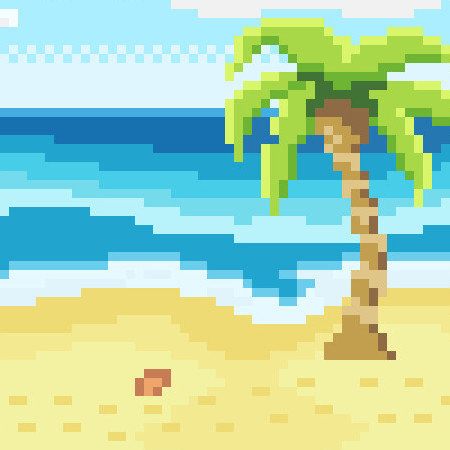
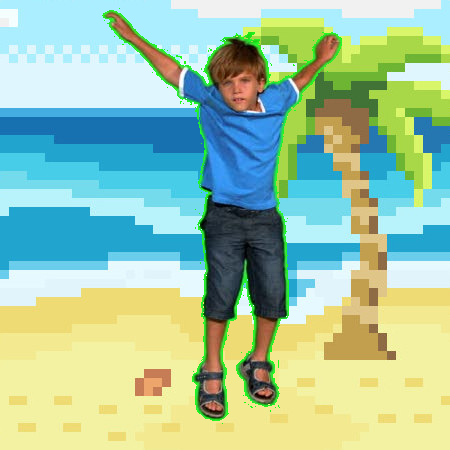
new_project final

Changed region(s): [[0.2178, 0.0, 0.7778, 0.9333]]

diff --git a/4.4/new_project.py b/4.4/new_project.py
@@ -1,23 +1,28 @@
 # Fractal art generator
 # Author: Jacob Joe
 # Date: November 14, 2025
-# A fractal art generator that uses recursion to generate patterns
+# A fractal art generator that uses recursion to generate patterns, counts the number of recurisve 
+# function calls executed, and allows the user to select the colour pallete if they so desire
 
 
 import turtle  # Imports the turtle module
 t = turtle.Turtle()  # Creates a turtle instance
 
-# Recursive function that draws a pattern
+# A dictionary that allows for easy access of elements 
+fractal_settings_dictonary = { "branch_length": 60,  "angle": 120,  "colours": [], "level_cap": 9, "call_count": 0   }
+
+# Recursive function that draws a pattern 
 def draw_pattern(level, branch_length):
+    fractal_settings_dictonary["call_count"] += 1
     if level > 0:
         t.forward(branch_length)  # draws the current branch
-        t.left(120)
+        t.left(fractal_settings_dictonary["angle"])
         draw_pattern(level - 1, branch_length / 1.61)
 
-        t.left(120)
+        t.left(fractal_settings_dictonary["angle"])
         draw_pattern(level - 1, branch_length / 1.61)
 
-        t.left(120)
+        t.left(fractal_settings_dictonary["angle"])
         draw_pattern(level - 1, branch_length / 1.61)
         t.back(branch_length)
         
@@ -31,18 +36,22 @@ t.pendown()
 t.color("white") # Sets up the colour and width of turtle
 t.width(2)
 
-done = False
+done = False 
 
+# A while loop that will keep requesting the amount of levels until the user inputs an acceptable amount
 while not done:
   level = float(input("How many levels do you want to draw from 1-9? "))
-  if level > 9:
+  if level > fractal_settings_dictonary["level_cap"]:
     user_input = input("Levels requested are too high, do you want to input a value lower than 9? If not, go autmomatically with 6.(Y/N)").lower()
+# Uses default levels if the user does not want to input anything new
     if user_input == "n":
       print("Setting to 6 levels.")
       level = 6
       done = True
+# Will ask for another input if user input is less than or equal to 0
   elif level <= 0:
     user_input = input("Levels requested are too low, do you want to input a value higher than 0? If not, go automatically with 6.(Y/N)").lower()
+# Uses default levels if the user does not want to input anything new
     if user_input == "n":
       print("Setting to 6 levels.")
       level = 6
@@ -50,13 +59,26 @@ while not done:
   else:
     done = True
 
-  
+# Lets user customize the colours
+# Can input colours such as blue or light blue
+custom_colours = input("Enter up to 9 different comma-split colours for the pattern or press enter to go with defalut option. ").lower()
+if custom_colours.strip() == "":
+    colours = ["purple", "indigo", "blue", "cyan", "light blue", "white"]
+# If the user inputed colours
+else:
+    custom_colours = custom_colours.strip().split(",")
+    colours = custom_colours
+# If the user inputed too many colours
+    if len(custom_colours) > fractal_settings_dictonary["level_cap"]:
+        print("There are too many colours. Using default instead.")
+        colours = ["purple", "indigo", "blue", "cyan", "light blue", "white"]
+fractal_settings_dictonary["colours"] = colours
 
-colors = ["indigo", "purple", "blue", "cyan", "light blue", "white"]
 
+# Repeats the pattern 8 times to create a snowflakeish structure
 for i in range(8):
-    t.pencolor(colors[i % 6])
-    draw_pattern(int(level), 60)
+    t.color(fractal_settings_dictonary["colours"][i % len(fractal_settings_dictonary["colours"])])
+    draw_pattern(int(level), fractal_settings_dictonary["branch_length"])
     t.right(45)
-
+print("There were " + str(fractal_settings_dictonary["call_count"]) + " recursive calls")
 turtle.done()

diff --git a/5.1/coolcolours.py b/5.1/coolcolours.py
@@ -2,11 +2,35 @@
 # Author: Jacob Joe
 # November 14, 2025
 
+from PIL import Image
+import coolcolours
+
 def is_green(r, g, b):
-    return r >= 0 and r < 130 and g > 150 and g <= 255 and b >= 0 and b < 130: 
-    
-def colour(r,g,b):    
-    if r >= 0 and r < 130 and g > 150 and g <= 255 and b >= 0 and b < 130:
-        return "green"
+    if 0 <= r < 25 and g > 150 and 0 <= b < 120:
+        return True
     else:
-        return "other"
+        return False
+
+# Opens image files A (green) and B (background)
+image_green = Image.open("5.1/kid-green.jpg").load()
+image_beach = Image.open("5.1/beach.jpg").load()
+
+# Makes a output canvas C to draw 
+image_output = Image.open("5.1/kid-green.jpg")
+
+# Find the widths and heights of the images
+width = image_output.width
+height = image_output.height
+
+# Goes through all pixels in A
+for i in range(width):
+    for j in range(height):
+        r = image_green[i, j][0]
+        g = image_green[i, j][1]
+        b = image_green[i, j][2]
+
+        # Replace green pixel with B value
+        if coolcolours.is_green(r,g,b):
+            beach_colour = image_beach[i,j] 
+            image_output.putpixel((i,j), beach_colour)
+image_output.save("5.1/output.png", "png")

diff --git a/5.1/is_light.py b/5.1/is_light.py
@@ -1,0 +1,31 @@
+from PIL import Image
+
+def is_light(pixel):
+    r = pixel[0]
+    g = pixel[1]
+    b = pixel[2]
+    avg = int((r + g + b) / 3)
+
+    return avg >= 120
+# white_pixel = (255, 255, 255)
+print(is_light((255, 255, 255)))
+print(is_light((0, 0, 0)))
+# print(is_light(white_pixel))
+
+def binarize(input_filename, output_prefix):
+    output_filename = output_prefix + "output.png"
+    my_image = Image.open("5.1/kid-green.jpg").load()
+    output_image = Image.open("5.1/kid-green.jpg")
+
+    img_width = output_image.width
+    img_height = output_image.height
+
+    for i in range(img_width):
+        for j in range(img_height):
+            pixel = my_image[i, j]
+            if is_light(pixel):
+                output_image.putpixel((i, j), (255, 255, 255))
+            else: 
+                output_image.putpixel((i, j), (0, 0, 0))
+    output_image.save("5.1/light_output.png", 'png')
+binarize("kid-green.jpg", "kid2")

diff --git a/5.1/image_modifier.py b/5.1/image_modifier.py
@@ -7,6 +7,12 @@
 from PIL import Image
 import coolcolours
 
+def is_green(r,g,b):    
+    if  r <= 0 and r < 25 and g <= 255 and b >= 0 and b < 25:
+        return "green"
+    else:
+        return "other"
+
 # Opens image files A (green) and B (background)
 image_green = Image.open("5.1/kid-green.jpg").load()
 image_beach = Image.open("5.1/beach.jpg").load()

diff --git a/4.4/README.md b/4.4/README.md
@@ -2,7 +2,10 @@
 
 # How to use the program:
 - The program will prompt the user to input the number of levels they desire to create a snowflake
-- It will keep on asking for a valid input until the user provides one
+- It will keep on asking for a valid input until the user provides one between 1 and 9
+- After, it will ask the user to input up to 9 colours for the snowflake
+- It will automatically genereate with the default colours if the user presses enter or inputs more than 9 colours
+- The program will then draw the snowflake and count the number of recursive calls made
 
 # Approach:
 - I was trying to create a snowflake fractal art generator that would allow the user
@@ -11,17 +14,41 @@ to input the number of levels and customize the colour of the pattern
 - I wanted to cap the levels at 9 since anything higher would take to long and be inefficent
 - I also wanted to increase the levels if the user inputted a number less than or equal to 0
 - So I decided to make a while loop that would keep on asking the user for a valid input until they provided one
-
-
+- I took some inspiration from articles online about how to make recursive fractal art and found some usefull tips about how to keep changing the colour of the pattern
+- The number of levels is capped at 9 since I believe it will take the program too long to draw it
 
 # Debugging:
 - There were some issues with syntax and more specifically indenting which led the code to not run
 - I wasn't able to concatenate certain strings due to me forgetting about not being able to concatenate str and floats
 - I had difficulties with the level input since it was not recognizing any input less than or equal to 0 so I changed the input to a float instead of an int
--
+
 
 # Testing:
 - When I was running it to see how well the while loop was working, I inputted levels 10, 0 and -67 to see if it would handle edge cases
 - I was able to see it was able to handle 10 but it did not recognize any user_input equal to or less than 0 so I made level into a float to fix it
 - I tried adding in the ability to recognize non-numeric inputs but decided against it as I could not get it to work properly
+- It would not recognize any custom colours inputed at first because 
 
+# Test Cases:
+- Input: Levels: 5, Colours: red, blue, green, yellow, purple
+  - Expected result: A snowflake with 5 levels and the custom colours
+  - Actual result: A snowflake with 5 levels and the custom colours
+- Input: Levels: 10, 67 , n, Colours: 
+  - Expected result: Will keep asking until n is inputed, than outputs snowflake with 6 levels and default colours
+  - Actual result: Will keep asking until n is inputed, than outputs snowflake with 6 levels and default colours
+- Input: Levels: -3, 0, 4, Colours: blue
+  - Expected result: Asks for a valid input until a number between 1 and 9 is given 
+  - Actual result: Asks for a valid input until a number between 1 and 9 is given
+- Input: Levels: 3, Colours: red, blue, green, yellow, purple, indigo, orange, white, brown,    black
+  - Expected result: Will reject custom input and instead go with default colours
+  - Actual result: Will reject custom input and instead go with default colours
+- Input: Levels: 3, Colours: blahblahblah
+  - Expected result: Will use default colours instead  
+  - Actual result: Still runs but doesn't print with default colours and instead is just black
+  - Difference: I forgot that it would only go with default if the user pressed enter or there were too many colours inputted
+
+# Peer review:
+- The fractal offers a lot of freedom(colours, size)
+- The code is easy to read
+- I like that there is a warning when you put too many levels 
+- Code runs without errors
